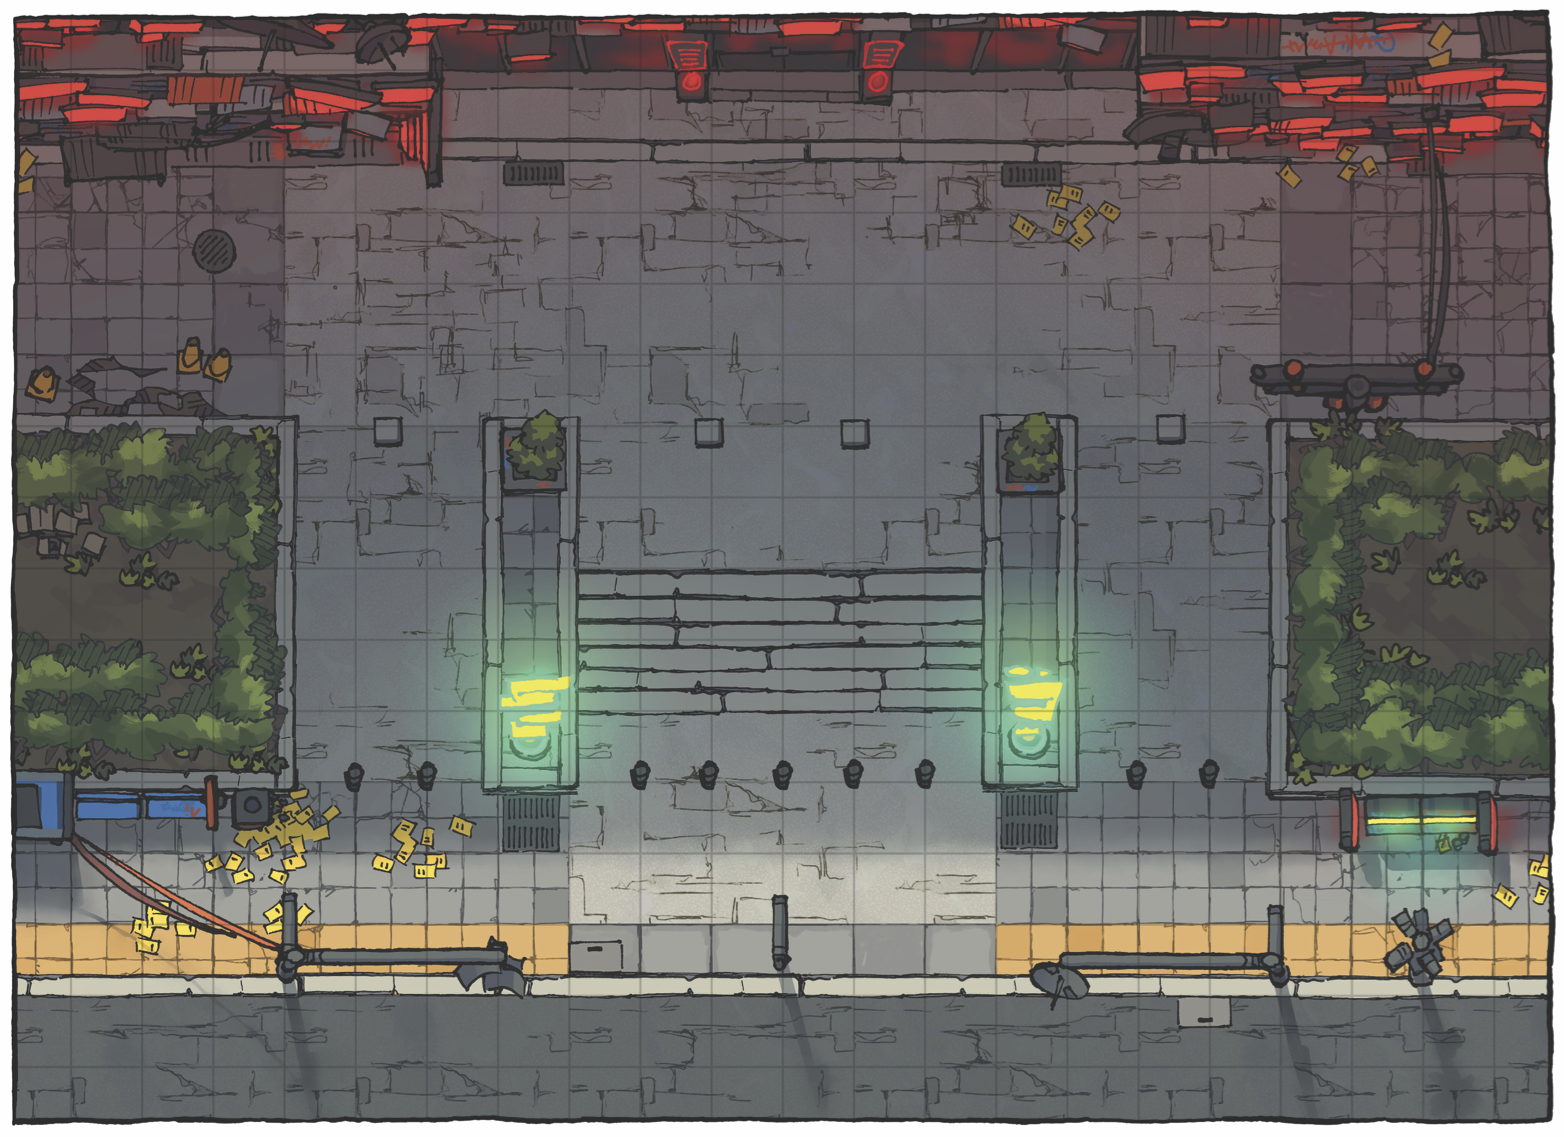
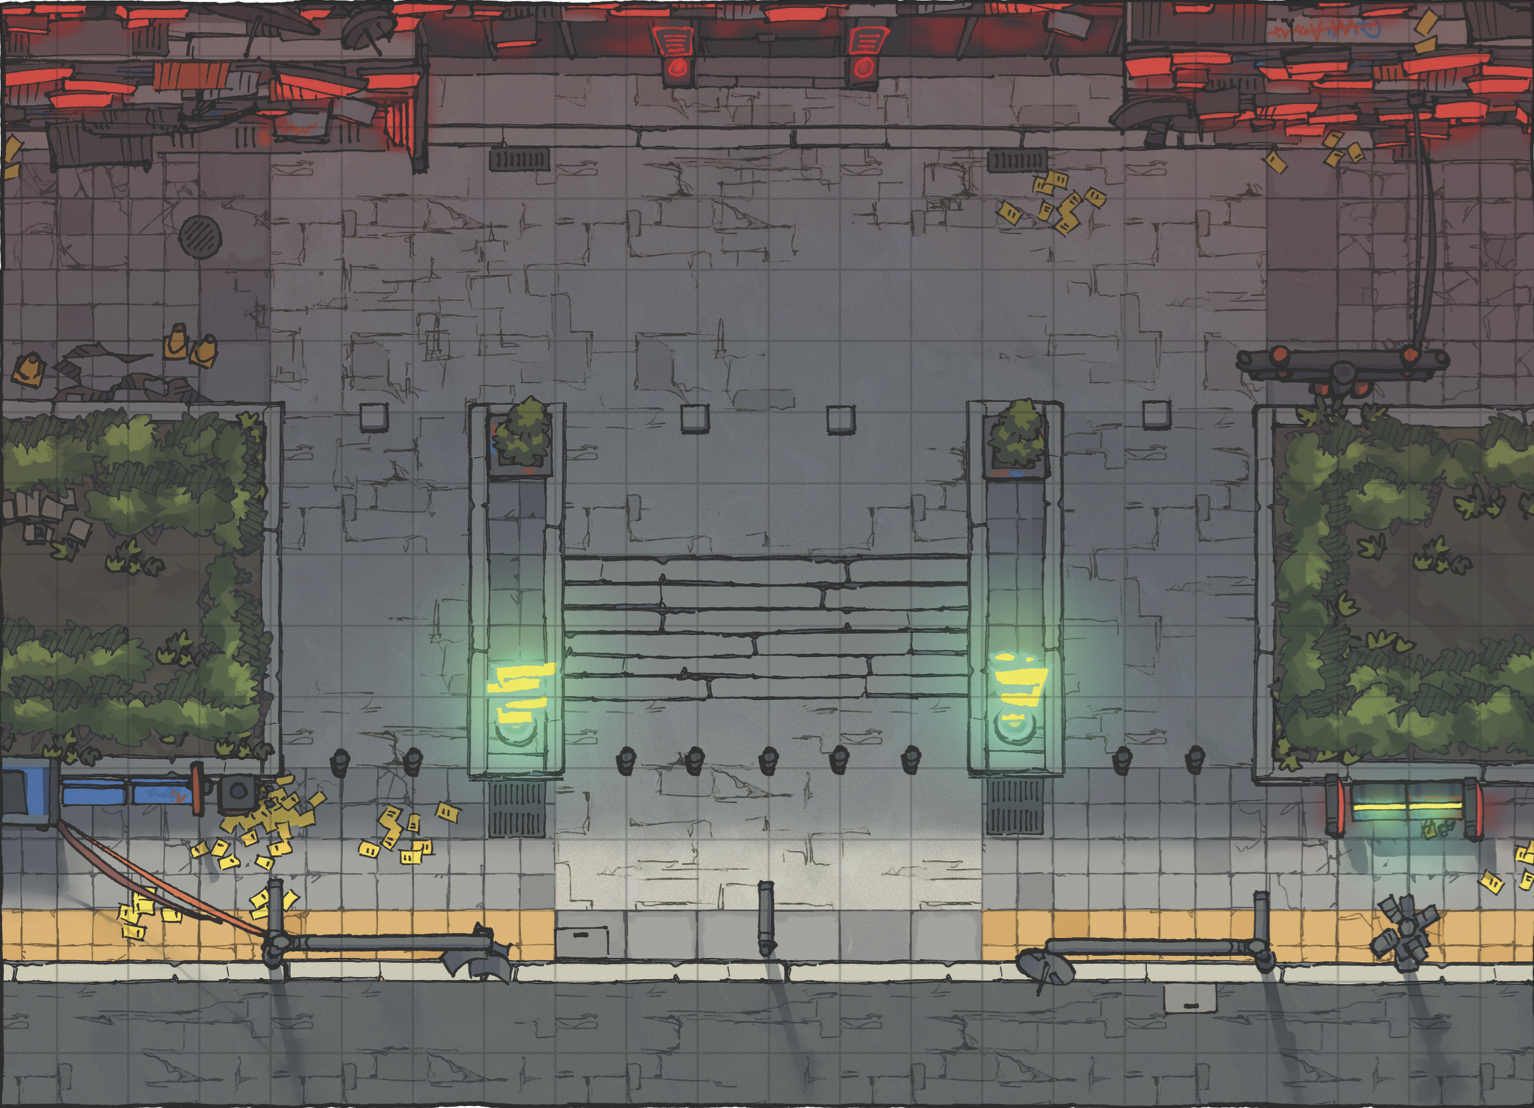
position of the background and removed the borders

diff --git a/frontend/app/game/page.tsx b/frontend/app/game/page.tsx
@@ -56,24 +56,13 @@ function Game() {
     }
 
     return (
-        <div
-            style={{
-                position: 'fixed',
-                top: 0,
-                left: 0,
-                width: '1564px',
-                height: '1137px',
-                overflow: 'hidden',
-                backgroundColor: 'black'
-            }}
-        >
+        <div className="relative w-screen h-screen overflow-hidden bg-black">
             <div style={{
                 position: 'absolute',
                 width: '1564px',
                 height: '1137px',
-                left: '50%',
-                top: '50%',
-                transform: 'translate(-50%, -50%)'
+                top: '-1px',
+                left: '-1px',
             }}>
                 {/* Background Image */}
                 <div style={{
@@ -119,12 +108,12 @@ function Game() {
                             <Image
                                 src={npc.character}
                                 alt={npc.name}
-                                width={144}  // Reduced from 288 to 144 (3 frames)
-                                height={256} // Reduced from 512 to 256 (4 directions)
+                                width={144}
+                                height={256}
                                 style={{
                                     position: 'absolute',
-                                    left: `-${npc.animation.currentFrame * 48}px`, // Reduced from 96 to 48
-                                    top: `-${['down', 'left', 'right', 'up'].indexOf(npc.animation.direction) * 64}px`, // Reduced from 128 to 64
+                                    left: `-${npc.animation.currentFrame * 48}px`,
+                                    top: `-${['down', 'left', 'right', 'up'].indexOf(npc.animation.direction) * 64}px`,
                                 }}
                             />
                         </div>
